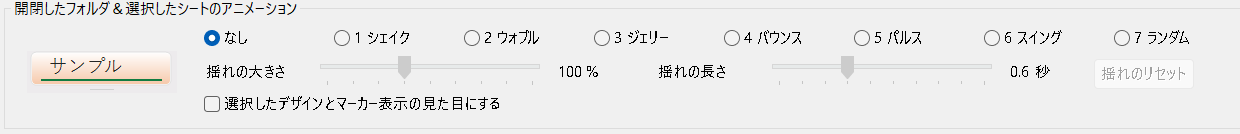
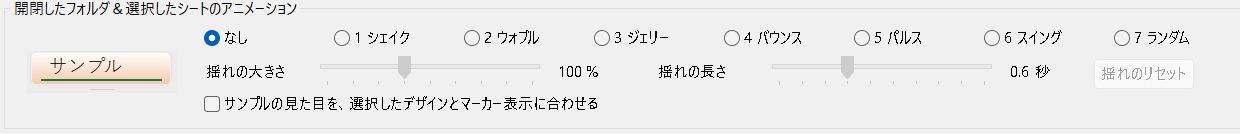
アニメーション設定のチェックボックスの文言を変える

Changed region(s): [[0.1839, 0.7164, 0.4903, 0.8358]]

diff --git a/VerticalSheetTabs/SettingsForm.cs b/VerticalSheetTabs/SettingsForm.cs
@@ -296,7 +296,7 @@ namespace VerticalSheetTabs
             durBox.Controls.Add(durLabel); durBox.Controls.Add(_wobbleDur); durBox.Controls.Add(_wobbleDurText); durBox.Controls.Add(_wobbleReset);
             var sliders = new FlowLayoutPanel { FlowDirection = FlowDirection.LeftToRight, AutoSize = true, AutoSizeMode = AutoSizeMode.GrowAndShrink, WrapContents = false, Margin = Padding.Empty };
             sliders.Controls.Add(ampBox); sliders.Controls.Add(durBox);
-            _wobbleUseStyle.Text = "選択したデザインとマーカー表示の見た目にする";
+            _wobbleUseStyle.Text = "サンプルの見た目を、選択したデザインとマーカー表示に合わせる";
             _wobbleUseStyle.AutoSize = true;
             _wobbleUseStyle.Margin = new Padding(3, 2, 3, 3);
             _wobbleUseStyle.CheckedChanged += (s, e) => { RefreshWobbleSample(); PlayWobbleSample(); };

diff --git a/README.md b/README.md
@@ -169,7 +169,7 @@
 ![アニメーションの設定。動きの選択、揺れの大きさと長さのスライダー、サンプル](docs/images/settings_anim.png)
 
 - 初期値は、**なし** (揺れません)。使いたいブックで、動きを選んでください。設定は、ブックごとに、ブックと一緒に保存されます
-- 「選択したデザインとマーカー表示の見た目にする」にチェックを入れると、サンプルが、いま選んでいる選択デザインとマーカーで動きます。実際の縦タブの見た目で、動きを確かめられます
+- 「サンプルの見た目を、選択したデザインとマーカー表示に合わせる」にチェックを入れると、サンプルが、いま選んでいる選択デザインとマーカーで動きます。実際の縦タブの見た目で、動きを確かめられます
 - 動きを「なし」にすれば、いつでも、静かな縦タブに戻せます
 
 ### 1.9 使い方のまとめ
@@ -436,7 +436,7 @@ flowchart LR
 | 開閉したフォルダ＆選択したシートのアニメーション | なし / 1 シェイク / 2 ウォブル / 3 ジェリー / 4 バウンス / 5 パルス / 6 スイング / 7 ランダム (横に並ぶ) | シートを選んだとき、そのシートが、フォルダを開閉したとき、そのフォルダが揺れる (フォルダを開いたときは、中の見えているシートも一斉に揺れる)。7 ランダムは、そのたびに、1から6のどれかを選ぶ。初期値は、なし |
 | | 揺れの大きさ (40から200%)、揺れの長さ (0.3から1.2秒) のスライダー | 初期値は、100%、0.6秒。右の「揺れのリセット」ボタンで、初期値に戻る (「なし」のときは、スライダーとボタンは使えません) |
 | | サンプル | 左端に、揺れるシートが1つ。選んだ動きを、繰り返し見せる (ランダムのときは、毎回、違う動き) |
-| | 選択したデザインとマーカー表示の見た目にする | チェックを入れると、サンプルが、いま選んでいる選択デザインとマーカー表示で描かれる (入れないときは、標準と下線マーカー)。この状態は、保存されません |
+| | サンプルの見た目を、選択したデザインとマーカー表示に合わせる | チェックを入れると、サンプルが、いま選んでいる選択デザインとマーカー表示で描かれる (入れないときは、標準と下線マーカー)。この状態は、保存されません |
 | フォルダを囲む点線 | 点線を表示する | 開いたフォルダの点線の ON / OFF |
 | | 色 (1から9) | 点線の色。右にいくほど、縦タブの背景から離れた、はっきりした色 |
 | シート名のルール | 使う | [7章](#7-シート名のルール)。「フォルダを囲む点線」の右に、並んでいます |

diff --git a/Agents.md b/Agents.md
@@ -46,7 +46,7 @@
 | 8 | Step0 から Step5 の開発メモ |
 | 9 | Step6 見た目の再現 (採寸結果、テーマ、DPI) |
 | 10、11 | Step7 仕上げ、完了状況と残課題 |
-| 12 | Step8 フォルダ機能の設計と、その後の改善、不具合の修正、リリースの記録 (12.1 から 12.170) |
+| 12 | Step8 フォルダ機能の設計と、その後の改善、不具合の修正、リリースの記録 (12.1 から 12.171) |
 | 13 | リリースの定型作業 |
 
 ## 1. 目的
@@ -2189,3 +2189,7 @@ gitGraph
 
 - 12.169 (フォルダを選択、解除したときも、揺らす) を含めて、バージョンを 1.1.67.0 に上げ、ClickOnce のインストーラを作り直した (`develop` と `master` に反映し、`v1.1.67` のタグを付けた。配布用zip: `配布用zip\VerticalSheetTabs_v1.1.67.zip`)
 - 成果物: `VerticalSheetTabs\bin\Release\app.publish\` (`setup.exe`、`VerticalSheetTabs.vsto`、`Application Files\VerticalSheetTabs_1_1_67_0\`)。インストールの実機確認は、未実施
+
+### 12.171 変更: アニメーションの設定の、チェックボックスの文言
+
+- ユーザーの要望により、設定画面の「開閉したフォルダ＆選択したシートのアニメーション」の、チェックボックスの文言を、「選択したデザインとマーカー表示の見た目にする」から、「サンプルの見た目を、選択したデザインとマーカー表示に合わせる」に変えた (`SettingsForm.cs`。動作は、12.141 のまま)。README の、この項目の記述も合わせた。README の `settings_full.png`、`settings_design.png`、`settings_anim.png` を、実機の画面で、撮り直した
